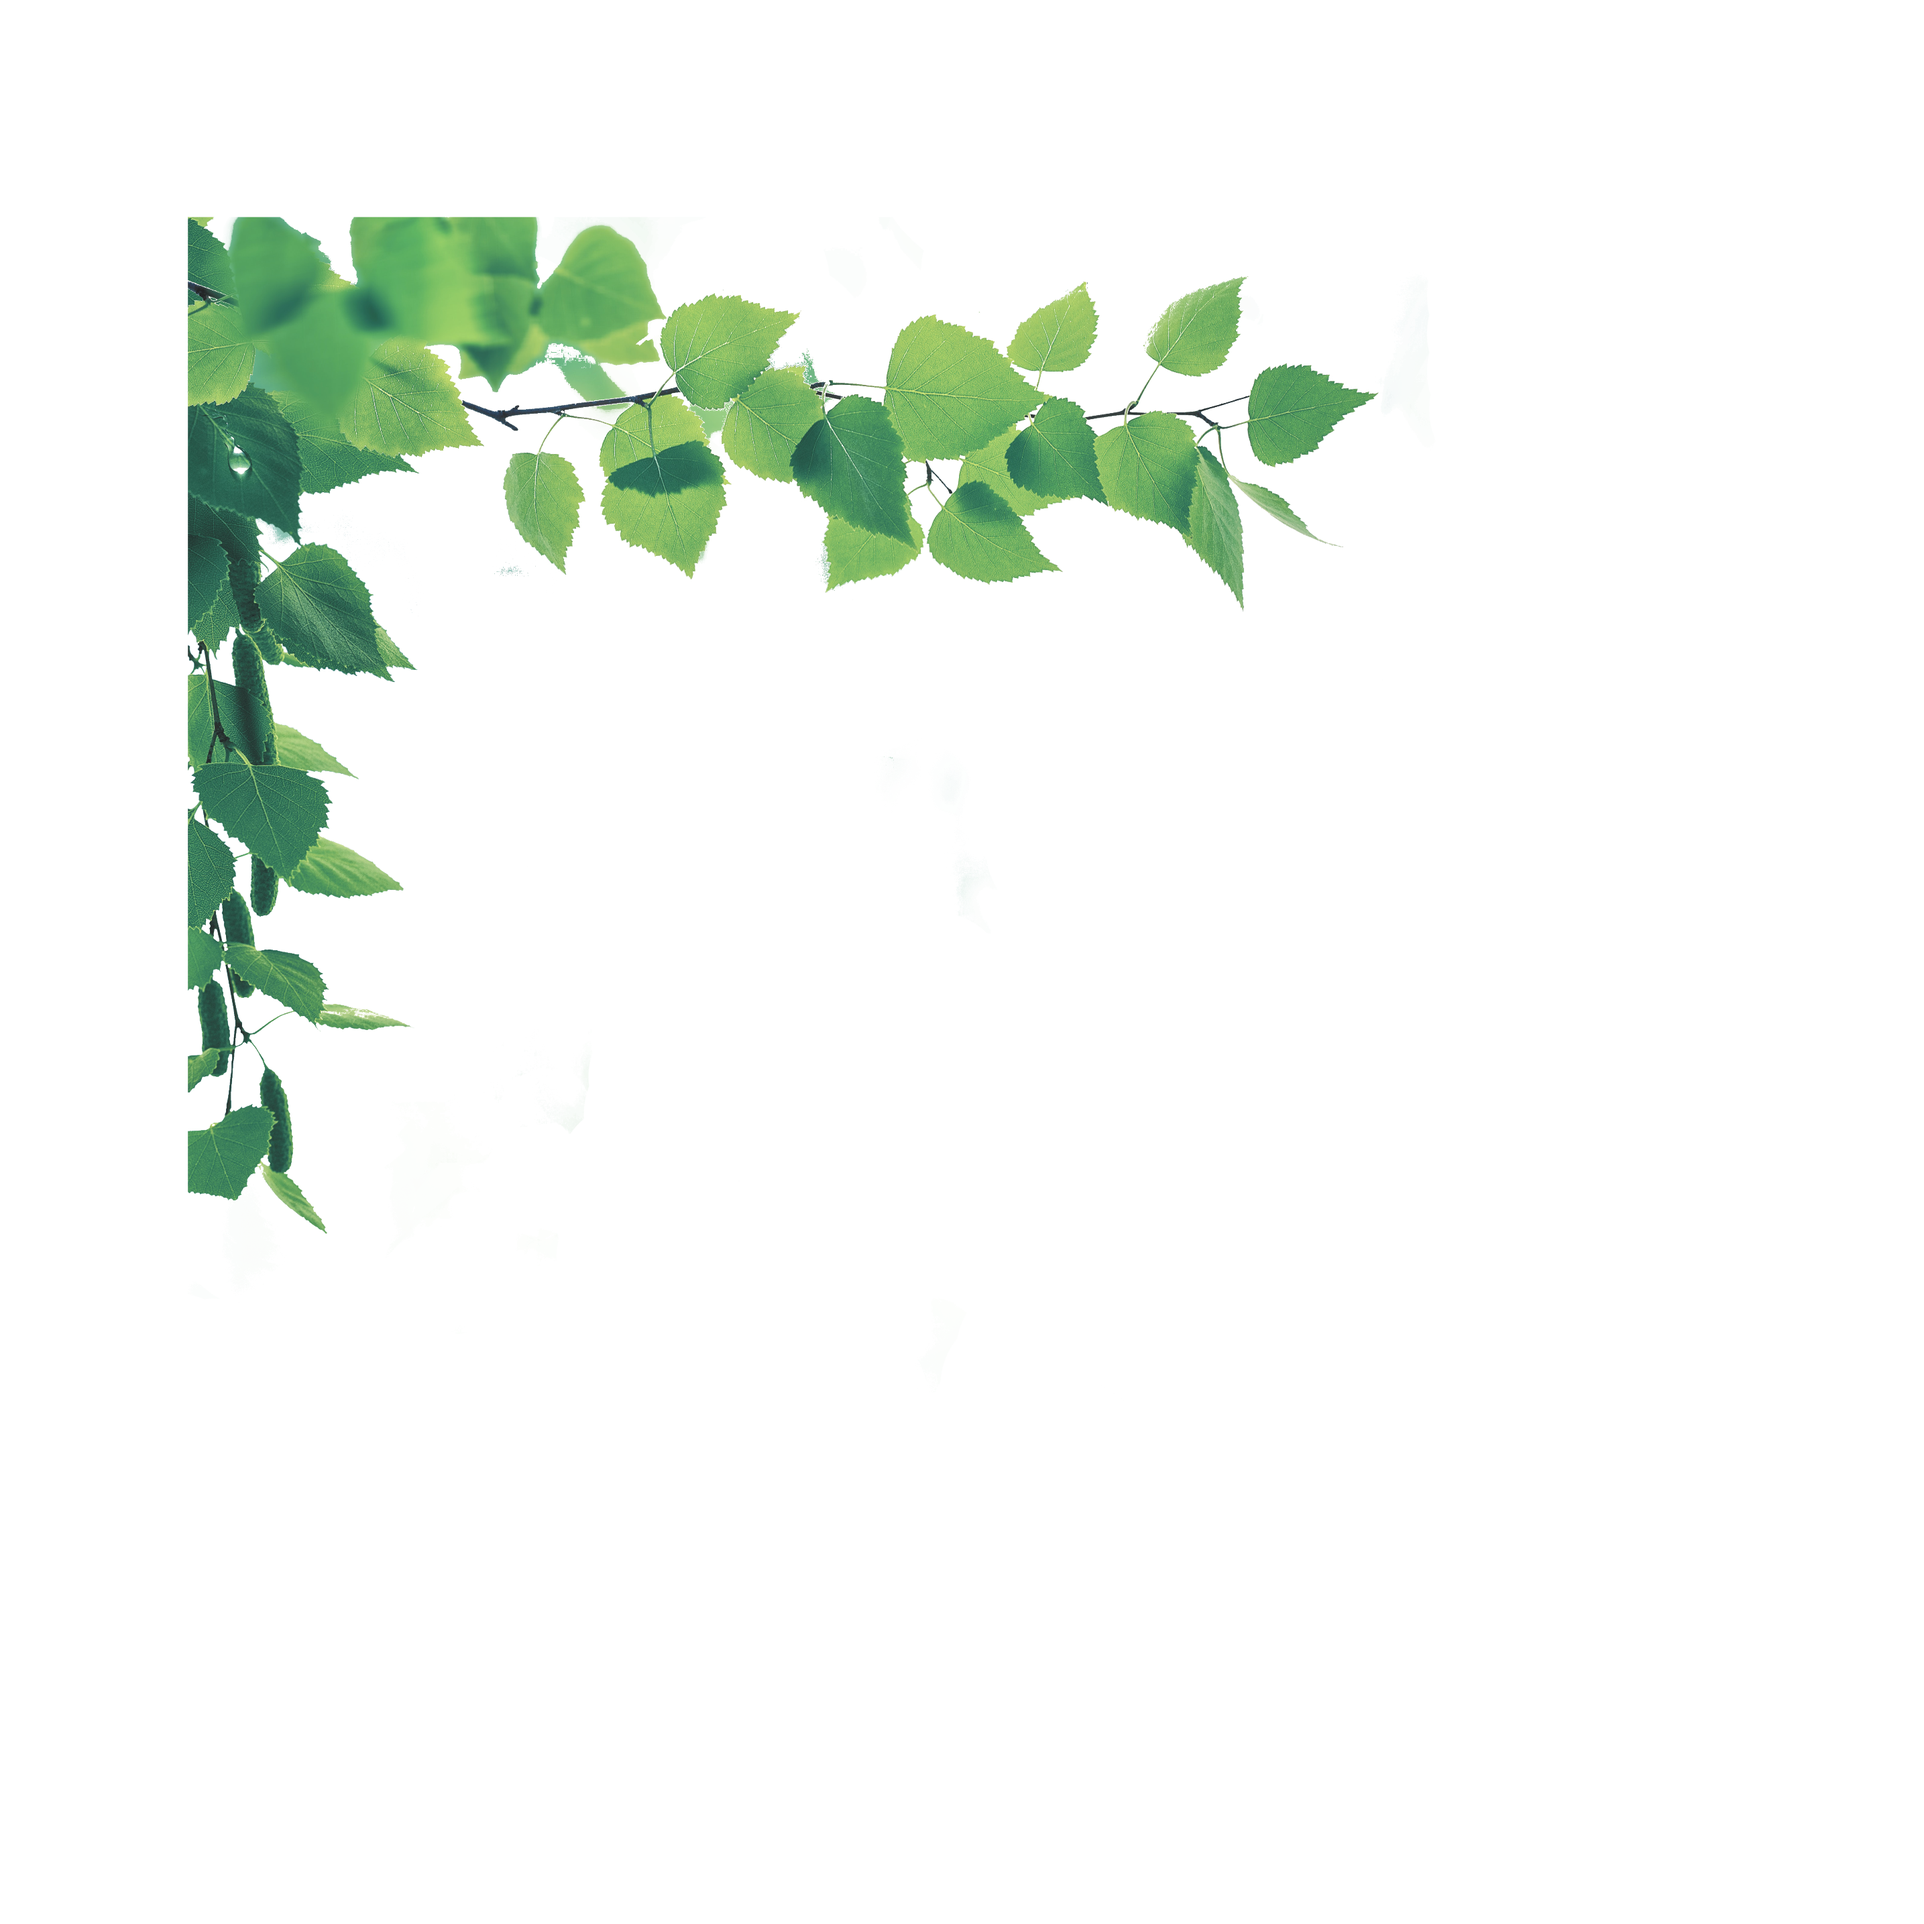
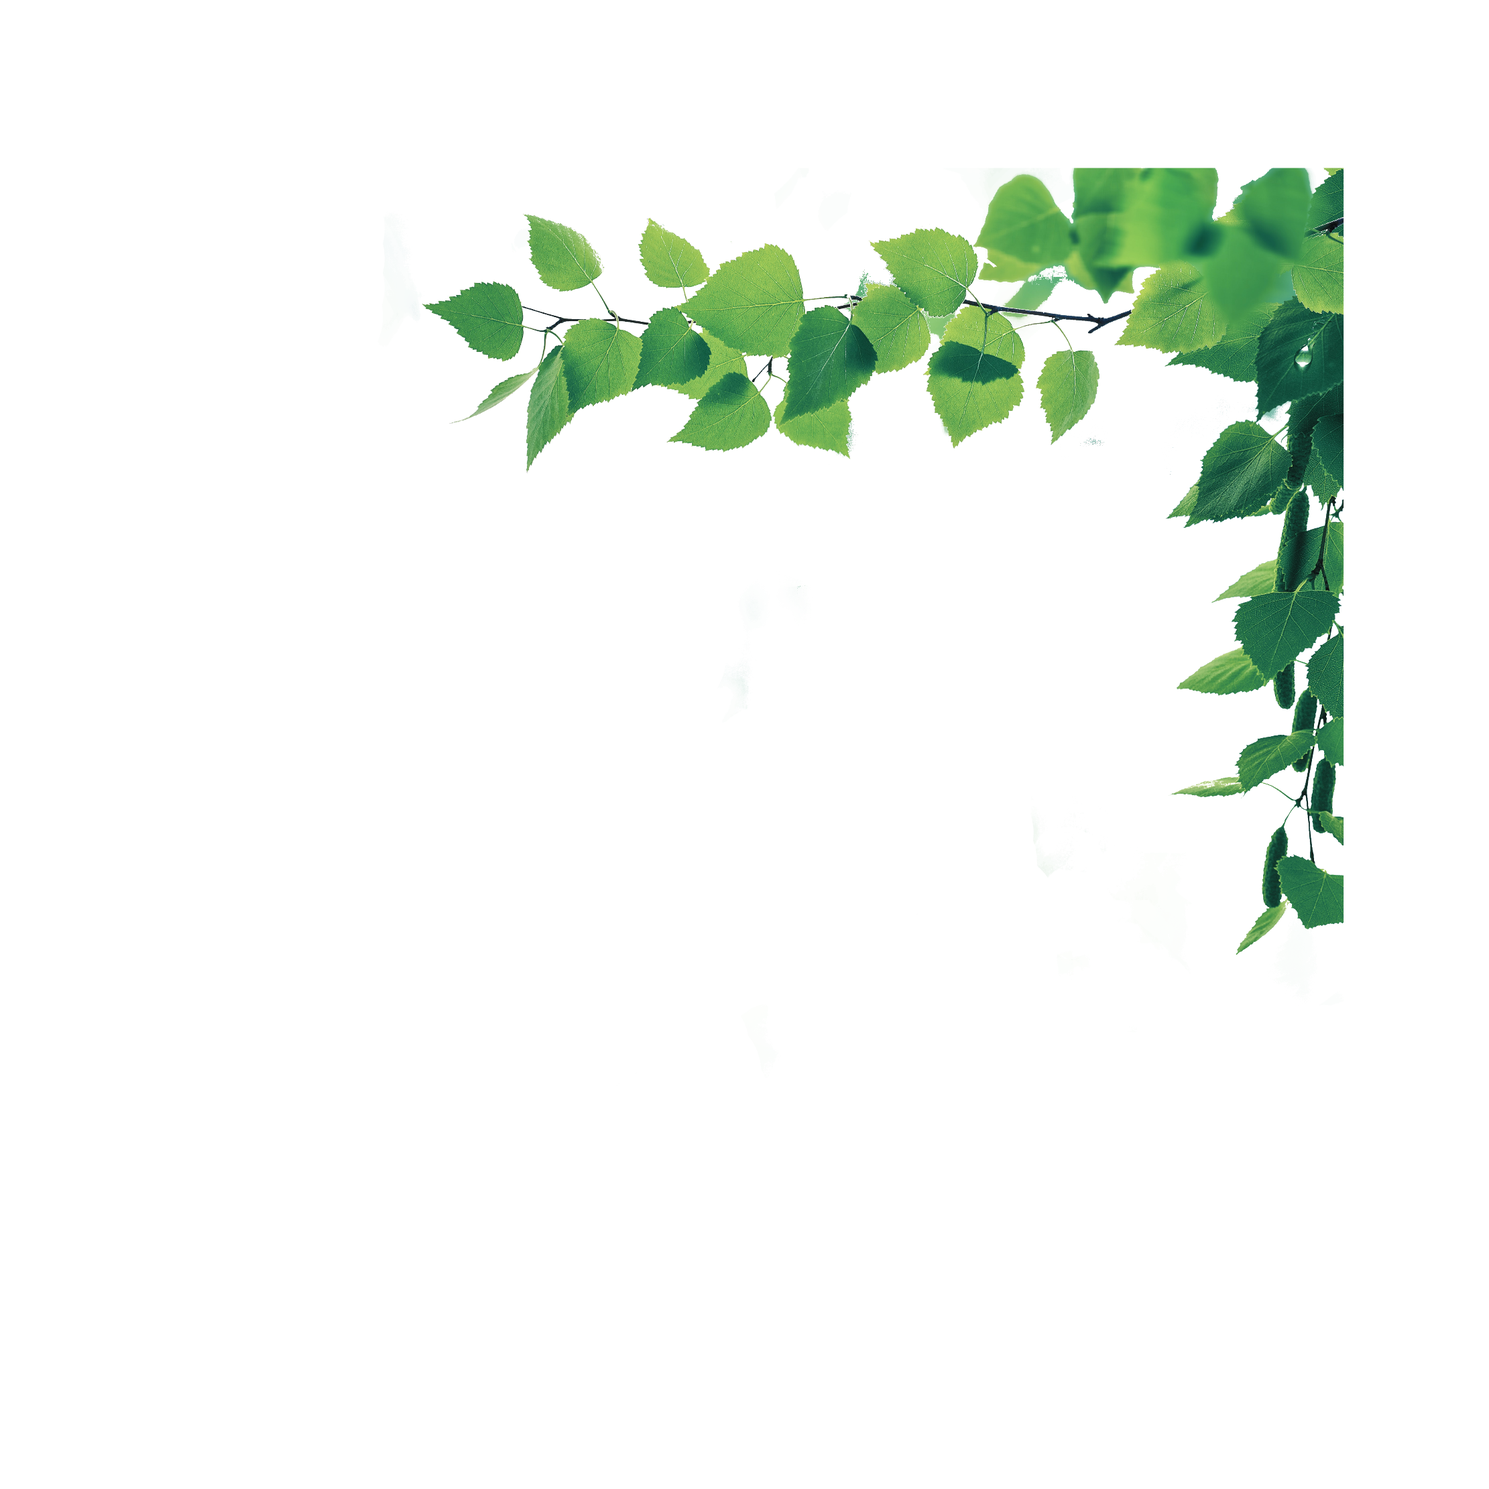
FocusArea

Changed region(s): [[0.0932, 0.0932, 0.9009, 0.6524], [0.1553, 0.6213, 0.1864, 0.6524]]

diff --git a/src/Home/home.css b/src/Home/home.css
@@ -52,11 +52,26 @@
 
 /*
 ┌─────────────┐
-│ Team Section ├────
+│ Focus Section ├────
 └─────────────┘
  */
-
+ .focus  {
+    padding-top: 150px;
+    padding-left: 104px;
+    /* padding-bottom: 50px; */
+    position: relative;
+    overflow: hidden;
+    /* display: flex; */
+    /* align-items:flex-end; */
+    height: 300px;
+ }
+ .bransh-focus {
+    position: absolute;
+    top: -300px;
+    right: -1385px;
+ }
 .focus h3 {
+    margin-bottom: 70px;
     color: #2F3433;
     font-size: 32px;
     font-family: theBold;
@@ -73,12 +88,26 @@
 }
 .focus .boxes {
     display: flex;
+    position: relative;
+    /* justify-content: space-between; */
 }
 .focus .boxes div {
     height: 89px;
-    color: #256F44;
+    margin-right: 60px;
+    max-width: 100px;
+    padding-right: 29px;
+    padding-left: 29px;
+    background-color: #256F44;
+    color: #F0F7F2;
+    font-weight: theRegular;
+    text-align: center;
     box-shadow: 0px 3px 20px #132D1E4D;
     border-radius: 8px;
+    font-size: 28px;
+    display: flex;
+    justify-content: center;
+    align-items: center
+
 }
 
 /*

diff --git a/src/Home/FocusArea.js b/src/Home/FocusArea.js
@@ -1,18 +1,22 @@
 import { Container } from "../components"
+import bransh from "../images/bransh-left.png"
+
 function FocusArea() {
     return (  
         <div className="focus">
-            <Container>
-                <h3>Our Focus areas</h3>
-                <div className="boxes">
-                    <div>Land</div>
-                    <div>Water</div>
-                    <div>Climate Change</div>
-                    <div>Energy</div>
-                    <div>Biodiversity</div>
-                    <div>Health</div>
+                <img className="bransh-focus" src={bransh} alt="" />
+                <div>
+                    <h3>Our Focus areas</h3>
+                    <div className="boxes">
+                
+                        <div><h6>Land</h6></div>
+                        <div><h6>Water</h6></div>
+                        <div><h6>Climate Change</h6></div>
+                        <div><h6>Energy</h6></div>
+                        <div><h6>Biodiversity</h6></div>
+                        <div><h6>Health</h6></div>
+                    </div>
                 </div>
-            </Container>
         </div>
     );
 }

diff --git a/src/Home/About.js b/src/Home/About.js
@@ -3,7 +3,7 @@ import bransh from "../images/bransh.png"
 const AboutInHome = () => {
     return(
         <div className="home-about">
-             <div className="bransh-image">
+            <div className="bransh-image">
                 <img src={bransh} alt="" />
             </div>
             <div className="home-about-text">
